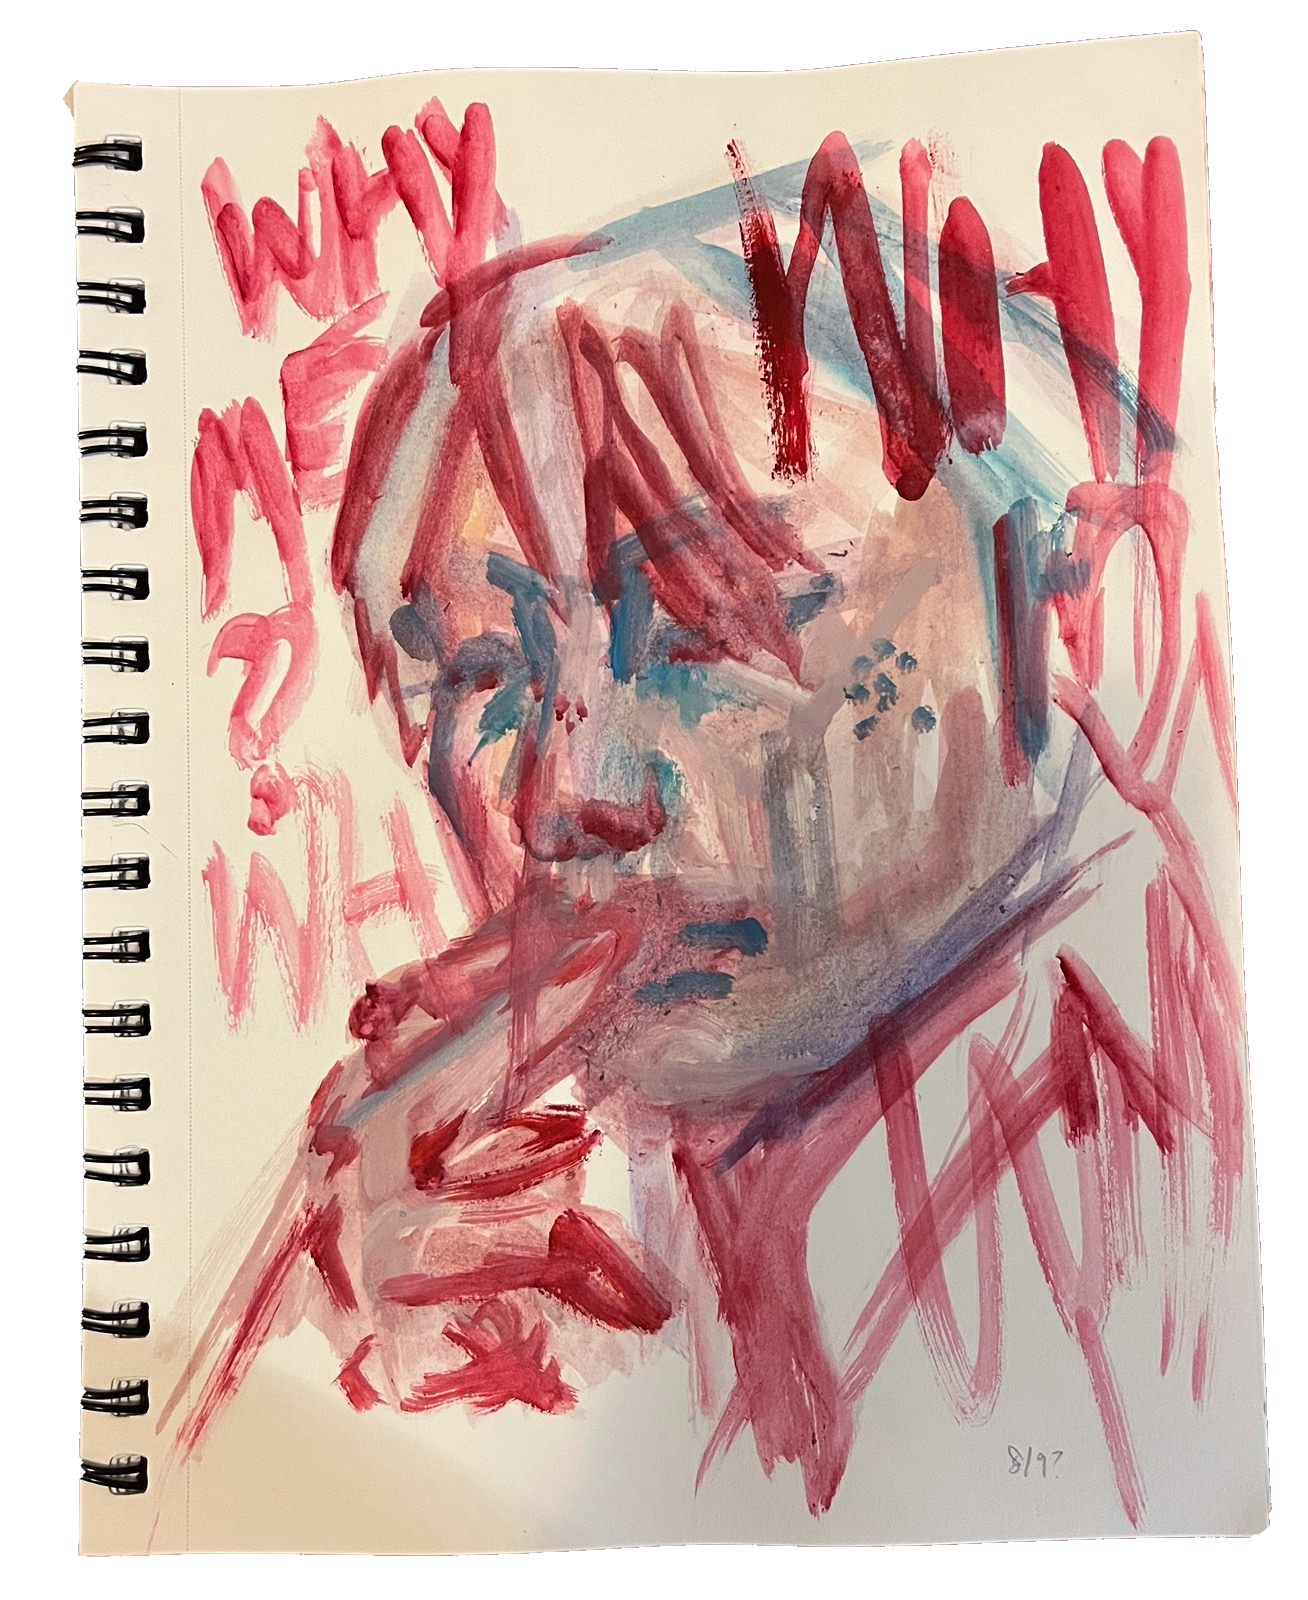
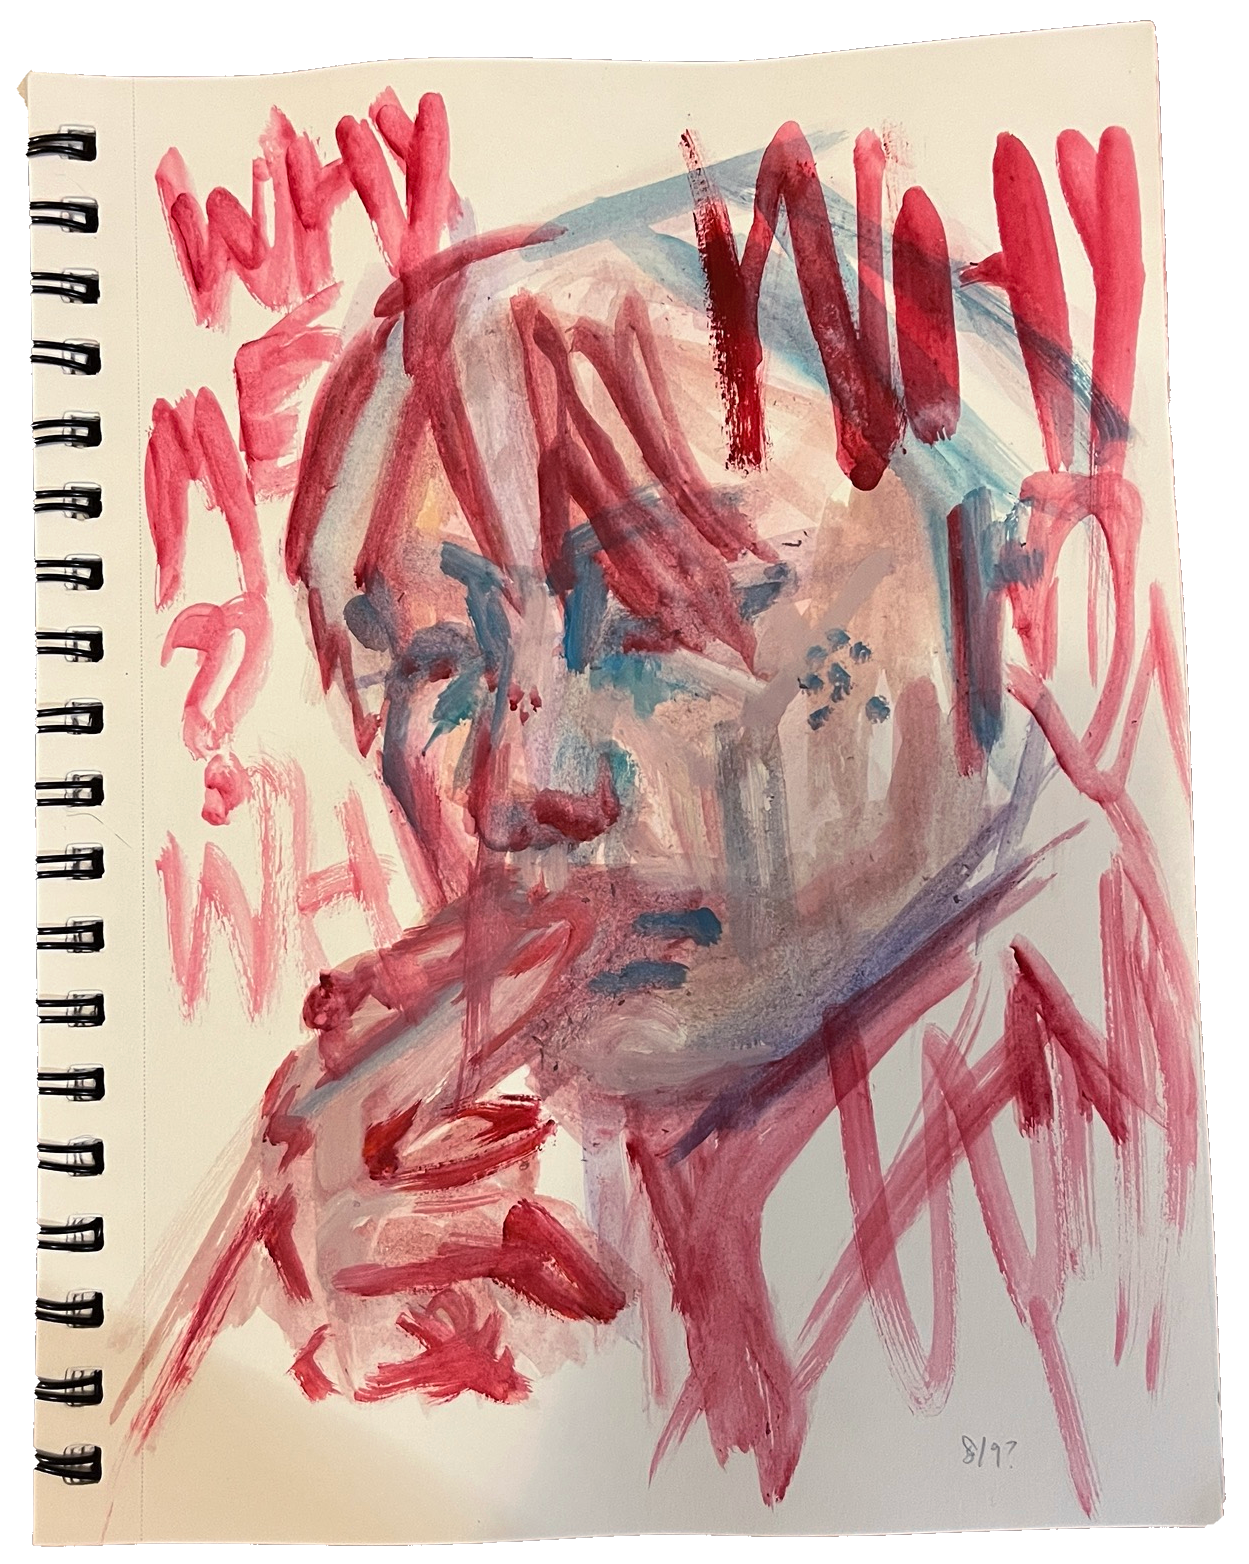
sketchbook styling

diff --git a/sketchbooks.html b/sketchbooks.html
@@ -70,20 +70,20 @@
                         <h3 class="preview-title"> &#35;001 </h3>
                         <h4>summer 2026 - ???</h4>
                     </div>
-                    <p><em>nothing can be done about it; it is obsessive and it obsesses me.</em> - chantal akerman</p>
+                    <p><em>nothing can be done about it; it is obsessive and it obsesses me.</em></p>
+                    <p>chantal akerman</p>
                 </div>
 
-                <div class="sketchbook-entry">
+                <div class="sketchbook-entry sk-vert">
 
-                    <figure class="sketch-preview"><img src="images/sk2/self2.png"></figure>
+                    <figure class="sketch-preview"><img src="images/sk2/self2.png" id="selfTwo"></figure>
 
                     <div class="sketchbook-title">
                         <h3 class="preview-title"> &#35;002 </h3>
                         <h4>summer 2026 - ???</h4>
                     </div>
-                    <p><em>i am that i was as i no longer am, for i am nothing.</em> - &quot;pulldrone&quot; by ethel
-                        cain
-                    </p>
+                    <p><em>i am that i was as i no longer am, for i am nothing.</em></p>
+                    <p>&quot;pulldrone&quot; by ethel cain</p>
                 </div>
             </div>
         </div>

diff --git a/styles/site.css b/styles/site.css
@@ -147,15 +147,19 @@ nav a {
     justify-content: end;
     align-items: start;
     padding-bottom:1em;
-    padding-left:2.5em;
-    padding-right:2.5em;
+    padding-left:4.5em;
+    padding-right:4.5em;
     width: 25%;
+}
+
+.sk-vert {
+    width: 20%;
 }
 
 .sketchbook-title {
     width: 100%;
     display: flex;
-    align-items:end;
+    align-items: end;
 }
 
 .sketchbook-entry figure {
@@ -178,8 +182,12 @@ nav a {
     width: 100%;
     display: flex;
     flex-direction: row;
+    justify-content: center;
 }
 
+#selfTwo {
+    scale: .9;
+}
 
 /* journal */
 .notebook-preview {
